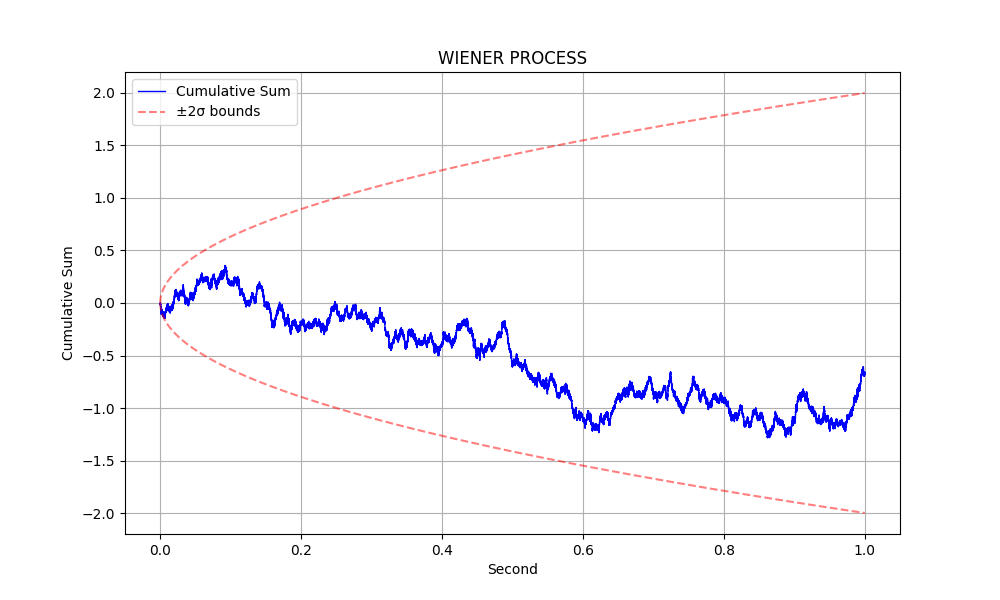
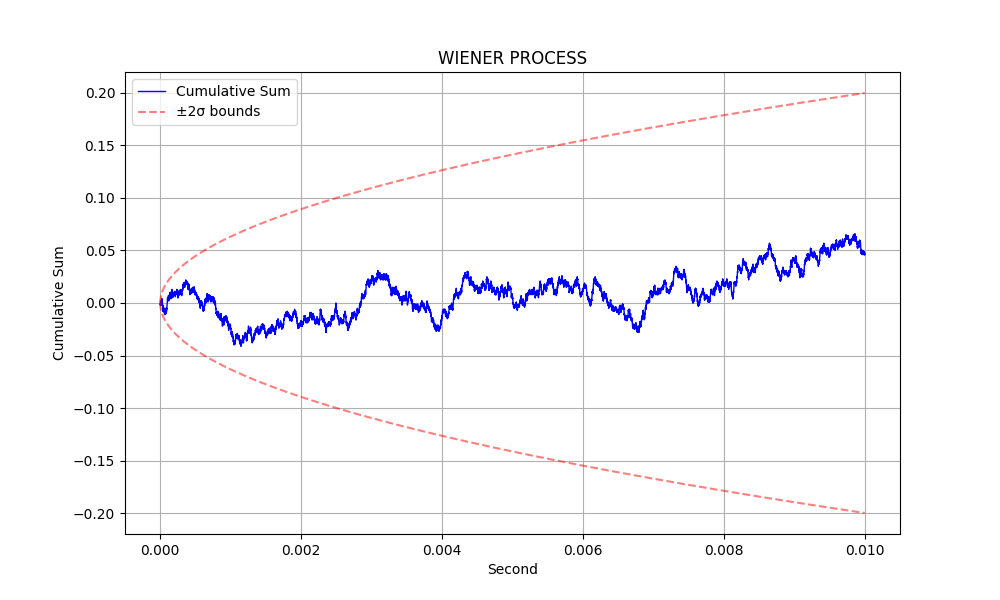
Second Commit

diff --git a/main.py b/main.py
@@ -1,5 +1,3 @@
-from statistics import covariance
-
 import numpy as np
 from collections import Counter
 import matplotlib.pyplot as plt
@@ -13,7 +11,7 @@ CHOICE = 1
 ALPHA = 1
 T = 10 ** (-6)
 N = 10 ** 6
-SAMPLES_OF_WIENER = 10 ** 6
+SAMPLES_OF_WIENER = 10 ** 4
 
 def heads_or_tails(method: int = RAND, step_size : float = 0.001) -> float:
     if method == RAND:
@@ -63,74 +61,97 @@ def plot_wiener_process(
         plt.close()
 
 def main():
+    # 1. Initial coin flip simulations
+    TRIALS = 100
+    choice_results = [heads_or_tails(method=CHOICE) for _ in range(TRIALS)]
+    rand_results = [heads_or_tails(method=RAND) for _ in range(TRIALS)]
 
-    results_with_choice_method = []
-    results_with_rand_method = []
-    for i in range(100):
-        results_with_choice_method.append(heads_or_tails(method=CHOICE))
-        results_with_rand_method.append(heads_or_tails(method=RAND))
+    # Print results of coin flip methods
+    print("-" * 50 + "\nCounted results from Choice method:")
+    print(Counter(choice_results))
 
-    print(50 * "-" + "\nCounted results from Choice method:")
-    counted_results = Counter(results_with_choice_method)
-    print(counted_results)
+    print("-" * 50 + "\nCounted results from RAND method:")
+    print(Counter(rand_results))
 
-    print(50 * "-" + "\nCounted results from RAND method:")
-    counted_results = Counter(results_with_rand_method)
-    print(counted_results)
+    # 2. Calculate and display hyper parameters
+    variance = ALPHA * T
+    std_dev = np.sqrt(variance)
 
-    s_to_power_of_two = ALPHA * T
-    s = np.sqrt(s_to_power_of_two)
-    print(50 * "-" + "\nHyper parameters:")
+    print("-" * 50 + "\nHyper parameters:")
     print("ALPHA =", ALPHA)
     print("T =", T)
-    print("S^2 = ALPHA * T =", s_to_power_of_two)
-    print("S =", s)
+    print("S^2 = ALPHA * T =", variance)
+    print("S =", std_dev)
     print("N =", N)
     print("Samples of wiener =", SAMPLES_OF_WIENER)
 
-    t = N * T
-    print(50 * "-" + "\nWiener process starts at:")
-    print("t = N * T =",t , "Second")
+    # 3. Wiener process initialization
+    process_start_time = N * T
+    print("-" * 50 + "\nWiener process starts at:")
+    print("t = N * T =", process_start_time, "Second")
 
-    # Generate the Wiener process steps
-    results = [heads_or_tails(method=RAND, step_size=0.001) for _ in range(N + SAMPLES_OF_WIENER + 1)]
-    result_dict = {i: results[i] for i in range(N + SAMPLES_OF_WIENER + 1)}
-    print(result_dict)
+    # 4. Generate Wiener process
+    total_samples = N + SAMPLES_OF_WIENER + 1
+    wiener_results = [heads_or_tails(method=RAND, step_size=0.001) for _ in range(total_samples)]
+    wiener_dict = {i: wiener_results[i] for i in range(total_samples)}
 
-    summation = sum(result_dict[i + N] for i in range(SAMPLES_OF_WIENER + 1))
-    print(50 * "-" + "\nsummation and mean after Wiener process starts at 1 million samples:\n"
-                     f"- Summation was over {SAMPLES_OF_WIENER} samples")
-    print("Summation:", summation)
+    # 5. Calculate statistics
+    sample_sum = sum(wiener_dict[i + N] for i in range(SAMPLES_OF_WIENER + 1))
+    sample_mean = sample_sum / SAMPLES_OF_WIENER
 
-    mean = summation / SAMPLES_OF_WIENER
-    print("Mean:", mean)
+    print("-" * 50 + "\nsummation and mean after Wiener process starts at 1 million samples:")
+    print(f"- Summation was over {SAMPLES_OF_WIENER} samples")
+    print("Summation:", sample_sum)
+    print("Mean:", sample_mean)
 
-    # Variance calculation
-    sum_squared = sum((result_dict[i + N] - mean) ** 2 for i in range(SAMPLES_OF_WIENER + 1))
-    variance_calculated = sum_squared / SAMPLES_OF_WIENER
-    print("Variance:", variance_calculated)
+    # Calculate variance
+    squared_deviations_sum = sum((wiener_dict[i + N] - sample_mean) ** 2
+                                 for i in range(SAMPLES_OF_WIENER + 1))
+    sample_variance = squared_deviations_sum / SAMPLES_OF_WIENER
+    print("Variance:", sample_variance)
 
-    new_result_values = list(dict(list(result_dict.items())[N:]).values())
-    new_result_dict = {i:new_result_values[i] for i in range(SAMPLES_OF_WIENER)}
+    # 6. Plot full Wiener process
+    plot_wiener_process(
+        wiener_dict,
+        display=True,
+        filename="wiener_plot_starts_at_1sec_extended.png",
+    )
+
+    # 7. Create and plot truncated process
+    truncated_values = list(dict(list(wiener_dict.items())[N:]).values())
+    truncated_dict = {i: truncated_values[i] for i in range(SAMPLES_OF_WIENER)}
 
     plot_wiener_process(
-        new_result_dict,
+        truncated_dict,
         display=True,
         filename="wiener_plot.png",
     )
 
-    t0 = 1000
-    t1 = 1500
-    covariance_result = []
-    for i in range(100):
-        results = [heads_or_tails(method=RAND, step_size=0.001) for _ in range(N + SAMPLES_OF_WIENER + 1)]
-        result_dict = {i: results[i] for i in range(N + SAMPLES_OF_WIENER + 1)}
-        new_result_values = list(dict(list(result_dict.items())[N:]).values())
-        new_result_dict = {i: new_result_values[i] for i in range(SAMPLES_OF_WIENER)}
-        cumulative_sum = calculate_cumulative_sum(new_result_dict)
-        covariance_result.append(list(cumulative_sum.values())[t0] * list(cumulative_sum.values())[t1])
-    print(covariance_result)
-    print(np.mean(covariance_result))
+    # 8. Covariance calculation
+    TIME_0 = 1000
+    TIME_1 = 2000
+    COVARIANCE_TRIALS = 200
+
+    covariance_results = []
+    for _ in range(COVARIANCE_TRIALS):
+        # Generate new process
+        trial_results = [heads_or_tails(method=RAND, step_size=0.001) for _ in range(N + TIME_1 + 1)]
+        trial_dict = {i: trial_results[i] for i in range(N + TIME_1 + 1)}
+
+        # Process results
+        trial_values = list(dict(list(trial_dict.items())[N:]).values())
+        trial_process = {i: trial_values[i] for i in range(TIME_1 + 1)}
+        cumulative_sums = calculate_cumulative_sum(trial_process)
+
+        # Calculate covariance
+        covariance_results.append(
+            list(cumulative_sums.values())[TIME_0] * list(cumulative_sums.values())[TIME_1]
+        )
+
+    print("-" * 50 + "\nRx(0.001,0.002) equals to:")
+    print(np.mean(covariance_results))
+    print("Wiener Rx(t0,t1) should be ALPHA * min(t0,t1) theoretically.\n"
+          "ALPHA is equal to one so that the Rx(0.001,0.002) should be 0.001.")
 
 if __name__ == '__main__':
     main()
